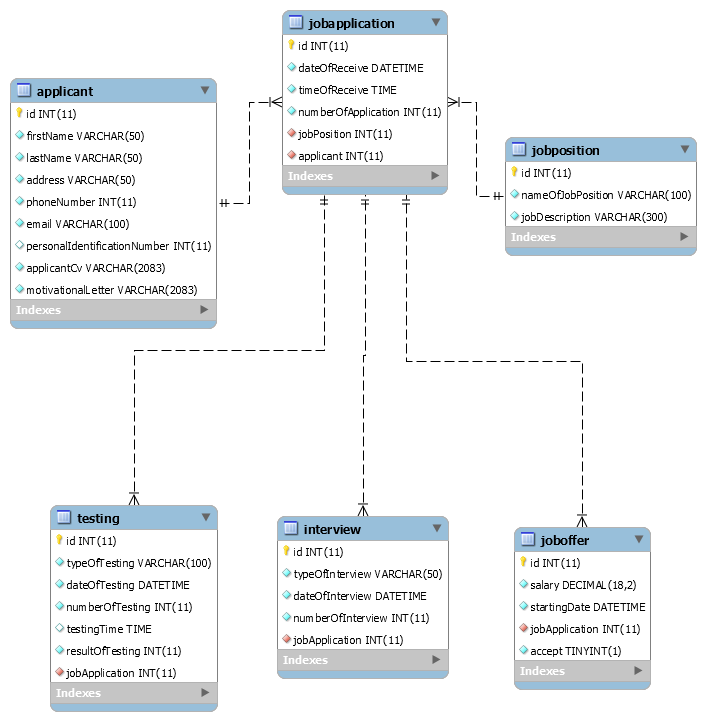
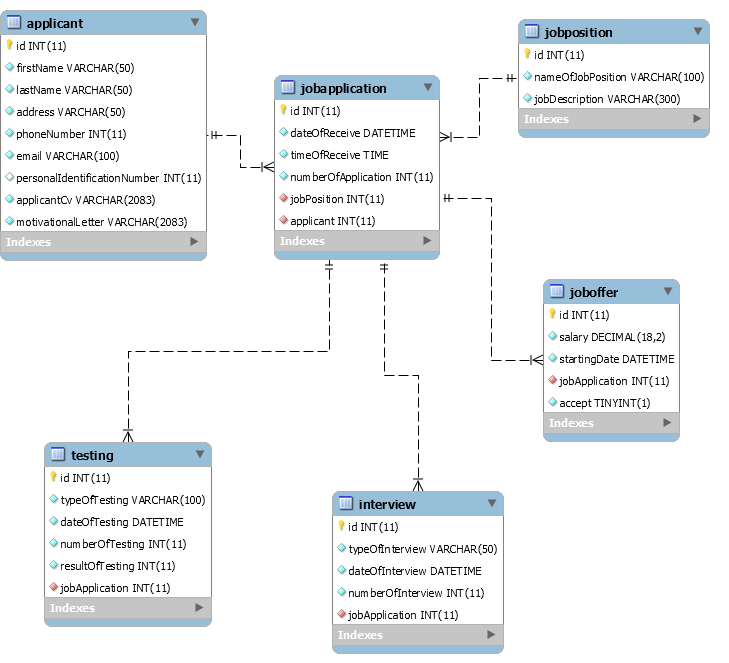
removed testing time from Testing

diff --git a/src/klenkar/summertask/Testing.java b/src/klenkar/summertask/Testing.java
@@ -10,7 +10,6 @@ public class Testing {
 	private String typeOfTesting;
 	private Date dateOfTesting;
 	private int numberOfTesting;
-	private Date testingTime;
 	private int resultOfTesting;
 
 	// default constructor
@@ -19,13 +18,11 @@ public class Testing {
 	}
 
 	// parameterized constructor
-	public Testing(int id, String typeOfTesting, Date dateOfTesting, int numberOfTesting, Date testingTime,
-			int resultOfTesting) {
+	public Testing(int id, String typeOfTesting, Date dateOfTesting, int numberOfTesting, int resultOfTesting) {
 		this.id = id;
 		this.typeOfTesting = typeOfTesting;
 		this.dateOfTesting = dateOfTesting;
 		this.numberOfTesting = numberOfTesting;
-		this.testingTime = testingTime;
 		this.resultOfTesting = resultOfTesting;
 
 	}
@@ -62,14 +59,6 @@ public class Testing {
 
 	public void setNumberOfTesting(int numberOfTesting) {
 		this.numberOfTesting = numberOfTesting;
-	}
-
-	public Date getTestingTime() {
-		return testingTime;
-	}
-
-	public void setTestingTime(Date testingTime) {
-		this.testingTime = testingTime;
 	}
 
 	public int getResultOfTesting() {

diff --git a/src/klenkar/summertask/Helper.java b/src/klenkar/summertask/Helper.java
@@ -42,15 +42,16 @@ public class Helper {
 
 	public static Date enterDate(String message) {
 		SimpleDateFormat df = new SimpleDateFormat(DATE_FORMAT);
-		
-		while(true) {
+
+		while (true) {
 			try {
 				return df.parse(JOptionPane.showInputDialog(message));
-			}catch(Exception e) {
-				JOptionPane.showConfirmDialog(null, "Input must be in format: " + DATE_FORMAT + "\nExample of todays date:"
-						+ df.format(new Date()));
+			} catch (Exception e) {
+				JOptionPane.showConfirmDialog(null, "Input must be in format: " + DATE_FORMAT
+						+ "\nExample of todays date:" + df.format(new Date()));
 			}
 		}
 
 	}
+
 }
